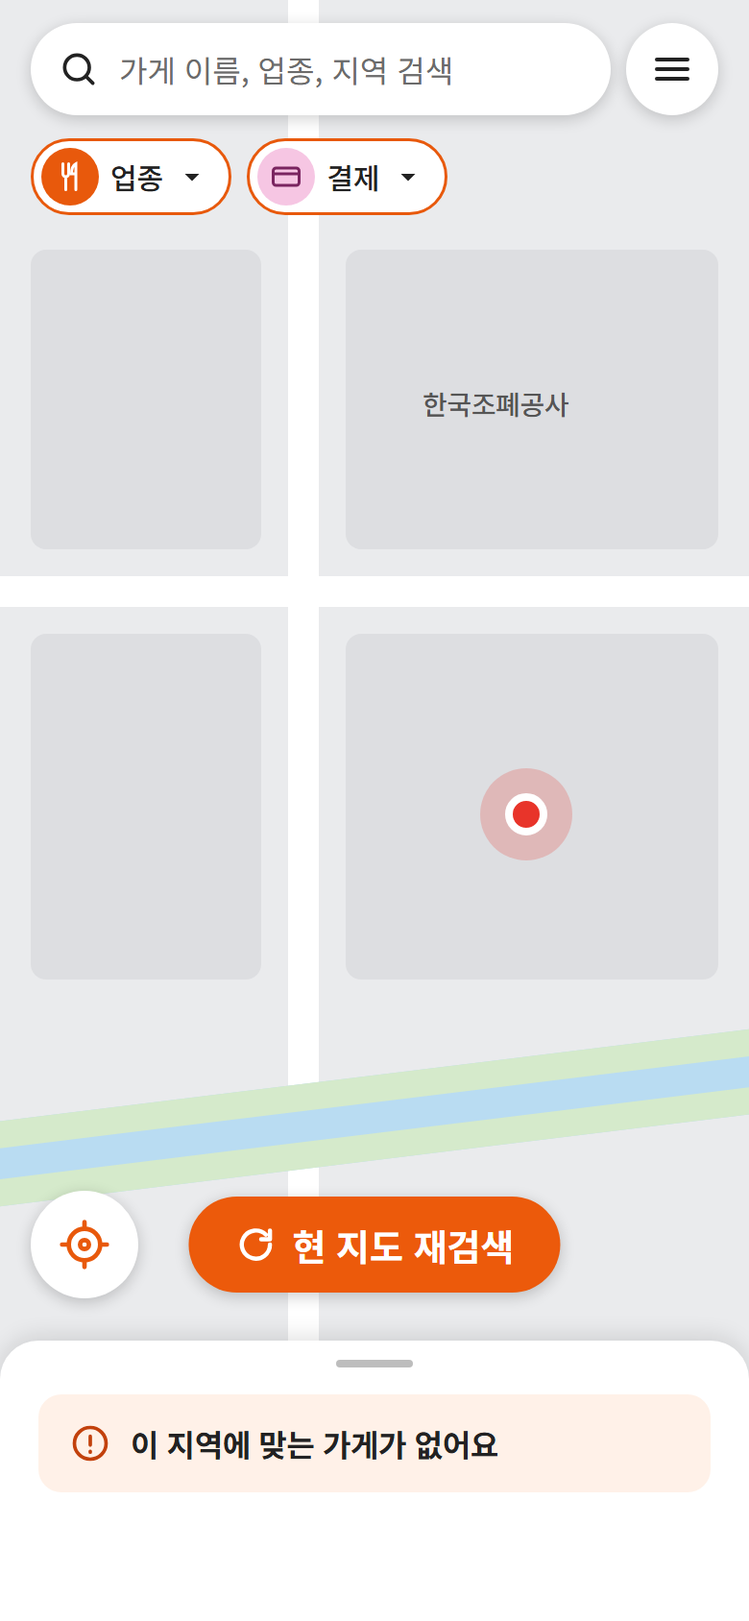
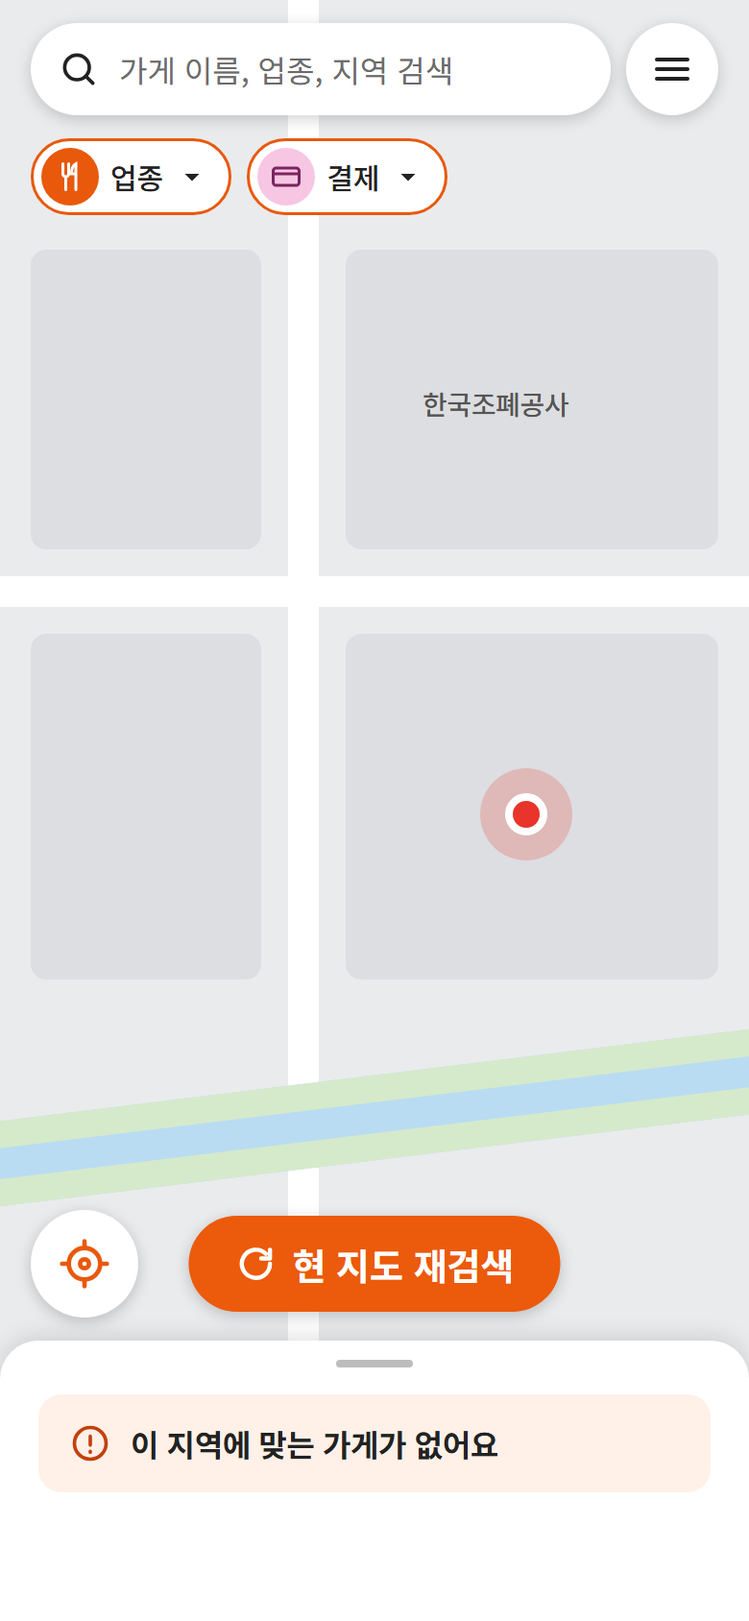
docs: location consent sheet, error screens, policy links (requirements v0.15, API v0.8)
- U-12 location info/consent sheet on first visit (FR-LOC-03, policy 3-5), /meta policies.locationTerms
- Menu links to terms and privacy policy (FR-MBR-13); no consent-history menu
- E-01 split into offline / server error (503 MAINTENANCE), customer center 1670-1600
- My-location and re-search buttons sit 12px above the sheet and move with it (FR-MAP-01)
- Email is view-only (FR-MBR-09)
- Design: U-12, E-01 server error, button positions; screen-API map updated

Changed region(s): [[0.2462, 0.7393, 0.7692, 0.8318], [0.0308, 0.7085, 0.1846, 0.8318]]

diff --git a/docs/REQUIREMENTS.md b/docs/REQUIREMENTS.md
@@ -1,4 +1,4 @@
-# 가맹점 검색 서비스 요구사항 정의서 (초안 v0.14)
+# 가맹점 검색 서비스 요구사항 정의서 (초안 v0.15)
 
 > 작성 2026-11-11 · 화면설계 반영 2026-11-13(10절 변경 이력) · 화면설계를 진행하며 함께 고친다 · 기준: `docs/SERVICE_POLICY.md`(정책), `docs/BACKEND_HANDOFF.md`(검색 이식), `docs/SEARCH_LOGGING.md`(로그)
 > 정책과 다르면 정책을 따르고 이 문서를 고친다. 결정 배경은 노션 "가맹점 검색 서비스 정책" 페이지 아래 "요구사항 정의서 설명".
@@ -79,7 +79,7 @@
 |---|---|---|---|---|
 | FR-LOC-01 | 검색 중심 결정 | 우선순위: 검색어 지명 → 화면에서 고른 지역 → 옮긴 지도 화면 중심 → GPS → 기본 위치. 선택된 출처를 응답·로그에 남김 | P0 | P3-1 |
 | FR-LOC-02 | 기본 위치 | 소상공인시장진흥공단 본부(36.383625, 127.318375). GPS 거부·실패·국내 밖(위도 33~39, 경도 124~132 밖)이면 사용, 문구 ⑨ | P0 | P3-3, P3-4 |
-| FR-LOC-03 | 위치 권한 | 첫 진입 때 바로 브라우저 위치 권한 창을 띄운다(앞에 설명 화면 없음). 거부·실패하면 기본 위치로 진행 + 작은 줄 ⑨. 거부해도 모든 기능 사용 가능. 내 위치 버튼으로 다시 요청 | P0 | P3-5 |
+| FR-LOC-03 | 위치 정보 이용 동의·권한 | 첫 진입 때 지도(기본 위치) 위에 U-12 위치 정보 이용 안내 시트를 띄운다(2026-11-17, 이전의 "설명 화면 없이 바로 권한 창"을 바꿈). 내용: 위치를 쓰는 목적(가까운 가맹점 찾기·거리 표시), 정확한 위치는 저장하지 않음, 위치기반서비스 이용약관 동의 줄(법무 결과에 따라 필수 ⚠ — 필요 없으면 이 줄 없이 안내만). [동의하고 위치 사용] → 브라우저 위치 권한 창 → 허용이면 GPS, 거부·실패면 기본 위치 + 작은 줄 ⑨. [나중에]·✕ → 기본 위치 + ⑨. 선택은 브라우저에 저장(약관 버전과 함께)해 다음 방문에는 다시 묻지 않고, 약관 버전이 바뀌면 다시 묻는다. 거부해도 모든 기능 사용 가능. 내 위치 버튼·⑨의 '위치 켜기'로 다시 요청(동의 전이면 U-12, 브라우저에서 막혀 있으면 토스트 "브라우저 설정에서 위치 권한을 허용해 주세요"). 첫 조회(`/browse`)는 시트에서 고른 뒤 부른다. 비회원 동의 기록을 서버에 남겨야 하는지는 법무 ⚠(필요하면 익명 동의 기록 API, P1) | P0 | P3-5, P16-3 |
 | FR-LOC-04 | 거리 기준 | 반경·거리순·상호 우선 10km·완전 일치 50km는 모두 검색 중심 기준 | P0 | P3-2, H8 |
 | FR-LOC-05 | 범위 | 지명 없음 → 중심 1km. 넓은 지명(시도·시군구·읍면) → 법정동 코드 앞 2·5·8자리. 좁은 지명(동·행정동·역·시장) → 그 중심 1km | P0 | P5-1~3 |
 | FR-LOC-06 | 반경 확장 | 1km 안 관련 가게 10곳 미만이면 10km로 한 번에. 상호 검색도 같음. 10km에도 0곳이면 문구 ③. 넓은 지명은 확장하지 않고 0곳이면 문구 ③-2 | P0 | P5-2, P5-4, P5-5 |
@@ -131,7 +131,7 @@
 
 | ID | 요구사항 | 상세 | 우선 | 근거 |
 |---|---|---|---|---|
-| FR-MAP-01 | 지도 표시 | 네이버 지도. 첫 화면 중심 = 검색 중심(GPS 또는 기본 위치), 기본 줌은 1km 반경이 보이는 수준(화면설계에서 확정 ⚠). 내 위치 표시·내 위치 버튼. 내 위치 버튼은 지도만 내 위치로 옮기고 다시 찾지 않는다('현 지도 재검색' 버튼이 나타남, FR-MAP-06) | P0 | P1-5 |
+| FR-MAP-01 | 지도 표시 | 네이버 지도. 첫 화면 중심 = 검색 중심(GPS 또는 기본 위치), 기본 줌은 1km 반경이 보이는 수준(화면설계에서 확정 ⚠). 내 위치 표시·내 위치 버튼. 내 위치 버튼은 지도만 내 위치로 옮기고 다시 찾지 않는다('현 지도 재검색' 버튼이 나타남, FR-MAP-06). 내 위치 버튼과 '현 지도 재검색' 버튼은 하단 시트 위 12px에 붙어 있어 시트를 끌어 올리거나 내리면 함께 움직이고(U-01·U-04·U-05 모두), 시트가 전체(목록)이면 숨긴다(2026-11-17) | P0 | P1-5 |
 | FR-MAP-02 | 지도 검색 범위 | 지도 화면에서 검색하면 보이는 사각형이 범위(반경 확장 없음). 결과 전부를 핀으로, 최대 300 | P0 | P6-1 |
 | FR-MAP-03 | 결과로 지도 맞춤 | 검색창으로 검색하면 결과가 있을 때 항상 지도를 결과에 맞춘다: 상위 10곳이 모두 들어오는 최소 범위(결과가 화면 가운데). 검색어에 지명이 없으면 검색 중심도 범위에 넣고, 지명·상호 우선·완전 일치면 결과(1위 쪽)만 맞춘다. 줌 한계: 가장 확대해도 1km 원이 보이는 줌, 가장 넓어도 10km 원이 보이는 줌(넓은 지명은 화면 대각선 50km 이하). '현 지도 재검색'은 지도를 옮기지 않는다(0곳이면 FR-MAP-04) | P0 | P6-2 |
 | FR-MAP-04 | 화면 안 0곳 | 지도 검색 결과가 0곳이면 화면 중심에서 목록 규칙(1km → 10km)으로 다시 찾고, 있으면 FR-MAP-03처럼 이동 + 문구 ⑧, 없으면 ④. 로그는 한 검색(같은 query_id)에 단계 표시 | P0 | P6-2 |
@@ -188,10 +188,11 @@
 | FR-MBR-06 | 로그인 유지 | 접근 토큰 30분 + 갱신 토큰 14일(HttpOnly·Secure 쿠키, 쓸 때마다 새로 발급). 로그아웃하면 갱신 토큰 폐기 | P1 | |
 | FR-MBR-07 | 최근 검색어 | 검색창을 누르면 최근 10개(최신 순) 표시, 누르면 그 검색어로 검색. 비회원은 그 자리에 "로그인하면 최근 검색어를 볼 수 있어요 · 로그인" 한 줄. 정규화가 같으면 하나로 합치고 시각 갱신, 마지막 원문 표시. 하나씩·전체 삭제. 좌표·query_id는 저장 안 함. 저장하는 검색: 직접 입력(`typed`, '현 지도 재검색' 포함)·최근 검색어(`recent`)·"'○○' 가게 보기"(`place_store`)·자동완성(`autocomplete`, P2). 칩 재검색·"○○ 지역으로 보기"·"다른 ○○"는 같은 검색어라 저장·시각 갱신을 하지 않는다. 검색어 없는 조회·지명만 입력은 저장 안 함(2026-11-16) | P1 | P9-1 |
 | FR-MBR-08 | 즐겨찾기 | 추가·해제, 같은 가게 한 번, 최대 500(넘으면 안내). 목록은 추가한 최신 순, 거리 표시. 목록에서 별을 누르면 바로 해제하고 그 줄을 목록에서 뺀다. 비면 "등록된 관심 가맹점이 없어요."(2026-11-16). 확인 대기 가게는 목록에서 숨김, 폐업·숨김 가게는 자동 삭제 | P1 | P9-2, P9-3 |
-| FR-MBR-09 | 내 정보 | 닉네임·이메일(동의 안 했으면 빈 칸)·연결된 로그인 수단 보기, 로그아웃, 탈퇴 | P1 | |
+| FR-MBR-09 | 내 정보 | 닉네임·이메일(동의 안 했으면 빈 칸)·연결된 로그인 수단 보기, 로그아웃, 탈퇴. 이메일은 구글 계정에서 받은 값을 보여 주기만 하고 바꾸지 않는다(서비스가 이메일을 보내지 않아 확인 메일·변경 기능을 두지 않음, 2026-11-17) | P1 | |
 | FR-MBR-10 | 닉네임 변경 | U-09의 '변경' → 입력 시트. 2~12자, 한글·영문·숫자(어기면 입력칸 아래 안내, 저장 버튼 꺼짐). 다른 회원과 같아도 된다(다른 회원에게 보이는 곳이 없음). P2 → P1(2026-11-16) | P1 | P2-8 |
 | FR-MBR-11 | 탈퇴 | 확인 대화상자 "정말 탈퇴하시겠습니까?" / "탈퇴 후에는 동일 정보로 재가입하여도 기존 내역이 복구되지 않습니다." [취소] [탈퇴](2026-11-16). 확인 후 회원을 탈퇴 상태로 바꾸고 닉네임·이메일을 비움(회원 번호와 가입·탈퇴 시각만 남음). 로그인 수단·약관 동의·최근 검색어·즐겨찾기는 즉시 삭제, 소셜 연결 끊기 요청. 분석 로그는 그대로(회원과 연결 안 됨) | P1 | P9-4 |
 | FR-MBR-12 | 로그인 상태 | 서비스는 로그인 없이 바로 열린다(첫 화면에 로그인 안내를 따로 띄우지 않는다 — 메뉴와 검색창 최근 검색어 자리에 이미 있음). 화면은 열 때 검색·조회를 먼저 부르고, 뒤에서 조용히 로그인 상태를 확인해 메뉴·별 표시에 쓴다. 로그인이 필요한 기능(별, 관심 가맹점, 내 정보)을 누를 때만 로그인으로 보낸다(2026-11-16) | P1 | |
+| FR-MBR-13 | 약관·방침 보기 | 메뉴 아래쪽에 이용약관 · 개인정보처리방침(· 위치기반서비스 이용약관, 법무 결과에 따라) 링크. 비회원·회원 모두. 개인정보처리방침은 누구나 볼 수 있게 공개해야 하므로 P0. 주소는 `/meta`로 받는다. 약관 동의 내역 메뉴는 두지 않는다 — 우리 약관은 모두 필수라 바꿀 선택 동의가 없다. 선택 동의(마케팅 등)가 생기면 그때 추가(2026-11-17) | P0 | P16-2 |
 
 ### 2-10. 관리자 공통·계정 (FR-ADM)
 
@@ -404,7 +405,7 @@ DB 테이블 설계의 입력이다. 이름은 예시이고 설계 단계에서 
 
 화면설계의 입력이다. 화면 ID는 화면설계 단계에서 그대로 쓴다. 완성된 화면 그림은 [`docs/design/README.md`](design/README.md)(원본: claude.ai 디자인 캔버스). 모바일 기준이며, 데스크톱(가로 1024px 이상)은 U-03·U-04를 한 화면에 함께 둔다(FR-MAP-09, 화면설계는 모바일 다음에).
 
-**공통 틀(모바일)**: 디지털온누리 앱 '가맹점 찾기' 디자인. 상단 헤더('가맹점 찾기 ×')는 두지 않고 **검색창이 항상 맨 위**, 검색창 오른쪽에 메뉴(☰). 메뉴: 비회원은 로그인 안내("로그인하면 관심 가맹점과 최근 검색어를 저장할 수 있어요" · 로그인) + 관심 가맹점 >, 회원은 "{닉네임}님, 반가워요!" + 내 정보 > + 관심 가맹점 >. 그 아래 업종 칩·결제 칩, 지도, 지도 위 내 위치 버튼·'현 지도 재검색', 하단 3단계 시트(닫힘 / 중간 / 전체). 직접 검색·내주변·관심 가맹점 탭과 시장·지역 검색 구분은 두지 않는다. U-03·U-04는 이 틀에서 시트 상태만 다르다.
+**공통 틀(모바일)**: 디지털온누리 앱 '가맹점 찾기' 디자인. 상단 헤더('가맹점 찾기 ×')는 두지 않고 **검색창이 항상 맨 위**, 검색창 오른쪽에 메뉴(☰). 메뉴: 비회원은 로그인 안내("로그인하면 관심 가맹점과 최근 검색어를 저장할 수 있어요" · 로그인) + 관심 가맹점 >, 회원은 "{닉네임}님, 반가워요!" + 내 정보 > + 관심 가맹점 >. 둘 다 아래쪽에 이용약관 · 개인정보처리방침 링크(FR-MBR-13). 그 아래 업종 칩·결제 칩, 지도, 지도 위 내 위치 버튼·'현 지도 재검색', 하단 3단계 시트(닫힘 / 중간 / 전체). 직접 검색·내주변·관심 가맹점 탭과 시장·지역 검색 구분은 두지 않는다. U-03·U-04는 이 틀에서 시트 상태만 다르다.
 
 ### 7-1. 사용자 화면
 
@@ -421,7 +422,8 @@ DB 테이블 설계의 입력이다. 이름은 예시이고 설계 단계에서 
 | U-09 | 내 정보 | 닉네임(변경 → 입력 시트), 이메일, 연결된 로그인 수단, 로그아웃, 탈퇴(확인 대화상자) | FR-MBR-09~11 | P1 |
 | U-10 | 즐겨찾기 목록 | 화면 이름 '관심 가맹점'(메뉴에서, 위 줄 "< 관심 가맹점"). 온누리 관심 가맹점 화면에서 상품권 태그 줄을 뺀 결과 카드 모양, 최신 순, 거리 표시, 별을 누르면 바로 빠짐. 비었으면 "등록된 관심 가맹점이 없어요." | FR-MBR-08 | P1 |
 | U-11 | 찾을 수 없음 | 폐업·숨김·없는 store_id | FR-DTL-07 | P0 |
-| E-01 | 연결 안 됨 | 첫 화면을 불러오지 못했을 때 전체 화면: "Wi-Fi 또는 모바일 네트워크 연결 상태를 확인해 주세요." · 다시 시도(웹이라 '종료' 없음). 고객센터 안내 줄(번호·운영 시간 ⚠). 사용 중 오류는 대화상자(8절) | 8절 | P0 |
+| U-12 | 위치 정보 이용 안내 | 첫 진입 때 지도 위 하단 시트: 목적·저장 안 함 안내, 위치기반서비스 이용약관 동의 줄(⚠), [나중에] [동의하고 위치 사용] | FR-LOC-03 | P0 |
+| E-01 | 화면을 불러오지 못함 | 첫 화면(`/meta`·`/browse`·지도)을 불러오지 못했을 때 전체 화면, 원인별 두 가지: ① 연결 안 됨(오프라인·네트워크 오류) "Wi-Fi 또는 모바일 네트워크 연결 상태를 확인해 주세요." ② 서버 오류·응답 없음(5xx, 10초 넘게 응답 없음, 네이버 지도 스크립트 로드 실패) "일시적인 오류로 화면을 불러오지 못했어요" / "잠시 후 다시 시도해 주세요." 점검(503 `MAINTENANCE`)이면 "서비스 점검 중이에요" / "{시각}까지 점검해요"(시각이 없으면 생략). 공통: 고객센터 1670-1600 · 평일 09:00~18:00(점심시간 12:00~13:00 제외), [다시 시도](웹이라 '종료' 없음). 고객센터 값은 API가 실패해도 보여야 하므로 화면에 넣어 둔다. 사용 중 오류는 대화상자(8절) | 8절 | P0 |
 
 ```
 U-01 메인 ──(검색창)──▶ U-02 ──(검색 실행)──▶ U-04 지도(시트 중간) ◀──(시트 올림·내림 / 전환 버튼)──▶ U-03 목록(시트 전체)
@@ -461,7 +463,9 @@ A-01 로그인 ──▶ A-03 가맹점 목록 ▶ A-04 상세·수정
 | 상황 | 화면 동작 | 형태 | 관련 |
 |---|---|---|---|
 | 검색·조회 중 | 결과 영역 자리 표시(스켈레톤). 300ms 안에 끝나면 표시하지 않음 | — | NFR-PRF-01 |
-| 첫 화면을 못 불러옴(연결 안 됨) | E-01 "Wi-Fi 또는 모바일 네트워크 연결 상태를 확인해 주세요." · 다시 시도 | 전체 화면 | |
+| 첫 화면을 못 불러옴 — 연결 안 됨 | E-01 ① "Wi-Fi 또는 모바일 네트워크 연결 상태를 확인해 주세요." · 고객센터 · 다시 시도 | 전체 화면 | |
+| 첫 화면을 못 불러옴 — 서버 오류·응답 없음·지도 로드 실패 | E-01 ② "일시적인 오류로 화면을 불러오지 못했어요" / "잠시 후 다시 시도해 주세요." · 고객센터 · 다시 시도. 503 `MAINTENANCE`면 "서비스 점검 중이에요" | 전체 화면 | NFR-OPS |
+| 위치 권한이 브라우저에서 막힘 | "브라우저 설정에서 위치 권한을 허용해 주세요" | 토스트 | FR-LOC-03 |
 | 쓰던 중 연결 끊김 | "인터넷에 연결할 수 없어요" / "Wi-Fi 또는 모바일 네트워크 연결 상태를 확인해 주세요." [닫기] [다시 시도]. 이전 결과·지도는 그대로 | 대화상자 | |
 | 서버 오류(5xx) | "일시적인 오류가 생겼어요" / "잠시 후 다시 시도해 주세요." [닫기] [다시 시도]. 이전 결과는 그대로 | 대화상자 | |
 | 요청 제한(429) | "잠시 후 다시 검색해 주세요" | 토스트 | NFR-SEC-04 |
@@ -485,10 +489,9 @@ A-01 로그인 ──▶ A-03 가맹점 목록 ▶ A-04 상세·수정
 | 항목 | 관련 ID | 담당·시점 |
 |---|---|---|
 | 서버 구성·배포·환경, 배치·확장어 생성 실행 환경(GPU) | FR-EXP-03, NFR-OPS-06 | 팀 문의 중 |
-| 위치 정밀도, 로그 보관, 관리자 접속 기록 필요 여부, 위치기반서비스 신고·약관 | FR-MBR-02, NFR-PRV | 법무 |
+| 위치 정밀도, 로그 보관, 관리자 접속 기록 필요 여부, 위치기반서비스 신고·약관(U-12 동의 줄 필수 여부, 비회원 동의 기록 서버 보관 여부) | FR-MBR-02, FR-LOC-03, NFR-PRV | 법무 |
 | 네이버 지도 사용량·요금 | IR-11 | 개발팀 |
 | 기본 줌, 핀 묶음 값, 안내 문구 문장, 데스크톱 화면 | FR-MAP-01, FR-MAP-07, FR-MSG-02, FR-MAP-09 | 화면설계 |
-| E-01 고객센터 번호·운영 시간(이 서비스 문의를 받는 곳) | 7-1 E-01 | 운영 준비 |
 | 알람 기준(폴백 외) | NFR-OPS-03 | 운영 준비 |
 
 ## 10. 변경 이력
@@ -510,3 +513,4 @@ A-01 로그인 ──▶ A-03 가맹점 목록 ▶ A-04 상세·수정
 | v0.12 | 2026-11-16 | PR #11 리뷰 반영: 같은 가게 판단을 도로명 주소(건물번호까지)로(FR-UPD-03, 9월→11월 원천 사라짐 14.9% → 5.6%), 안전장치는 원천 정리 기간에 적용 안 함(FR-UPD-05, v0.11의 "업종이 처음 들어와서"라는 이유는 잘못), 첫 관리자 계정·첫 비밀번호 변경 P0(FR-ADM-04), 시장유형 수정 불가(FR-STO-04), 노출 로그 = 검색 로그 목록(FR-LOG-02), 검색어 목록 통계는 1년 안만(FR-STA-01, DR-17), DR-05·06·09 보완, IR 필드 이름을 API와 맞춤, v0.10 축소가 빠진 문장 정리(1-2, 5-2, FR-UPD-02, 8절) |
 | v0.13 | 2026-11-16 | API 명세 v0.6(화면 흐름 보완)에 맞춤: 문구 ⑦을 `region_ambiguous`(같은 이름 지명)·`name_first`(상호 우선)로 나눔(FR-MSG-02), IR-01에 skipNameFirst("○○ 지역으로 보기")·칩 재검색 규칙, 핀은 결과 카드와 같은 필드(IR-01·03) |
 | v0.14 | 2026-11-16 | 화면·API 대응표 검토 반영: 다른 지역 선택 시트는 지금 지역 포함 모두 거리순·거리 표시(FR-SRC-06, FR-MAP-10, IR-01), 첫 비밀번호 변경은 새 비밀번호만·바꾸기 전 다른 기능 막음(FR-ADM-04), 관리자 가맹점 목록 순서 고정(FR-STO-01), 닉네임 변경 P1(FR-MBR-10), 통계 CSV는 화면에서 만들고 API 없음(FR-STA-03 P1), 공유 글 형식·링크 미리보기(FR-DTL-05), 검색에서 돌아오면 이전 조회 그대로(FR-BRW-06), 내 위치 버튼은 지도만 이동(FR-MAP-01), 확대 안내는 화면이 먼저 막음(FR-MAP-05), 핀 묶음 라벨(FR-MAP-07), 로그인 뒤 별 자동 추가(FR-DTL-06), 최근 검색어 저장 대상(FR-MBR-07), 관심 가맹점 해제 즉시·빈 화면(FR-MBR-08), 탈퇴 확인 문구(FR-MBR-11), 로그인 상태(FR-MBR-12 신설), 회원 메뉴(7절), E-01 연결 안 됨 화면, 오류 상태를 전체 화면·대화상자·토스트로 정리(8절) |
+| v0.15 | 2026-11-17 | 첫 진입 위치 정보 이용 안내·동의 시트 U-12(FR-LOC-03, 정책 3-5 변경), 약관·방침 링크를 메뉴에(FR-MBR-13 — 약관 동의 내역 메뉴는 두지 않음), E-01을 연결 안 됨·서버 오류(점검 포함) 두 가지로, 고객센터 1670-1600 확정, 내 위치·현 지도 재검색 버튼은 시트 위에 붙어 함께 움직임(FR-MAP-01), 이메일은 보기만(FR-MBR-09) |

diff --git a/docs/api/API_RULES.md b/docs/api/API_RULES.md
@@ -1,6 +1,6 @@
-# API 공통 규칙 (v0.6)
+# API 공통 규칙 (v0.7)
 
-> 작성 2026-11-13 · 고침 2026-11-16(PR #11 리뷰, 화면 흐름 보완 v0.5, 화면 대응표 검토 v0.6) · 기준: `docs/REQUIREMENTS.md` v0.14(5절 IR, 3절 NFR-SEC·PRV) · 명세: [`openapi.yaml`](openapi.yaml)(OpenAPI 3.1)
+> 작성 2026-11-13 · 고침 2026-11-16(PR #11 리뷰, 화면 흐름 보완 v0.5, 화면 대응표 검토 v0.6, 위치 동의·오류 화면 v0.7) · 기준: `docs/REQUIREMENTS.md` v0.15(5절 IR, 3절 NFR-SEC·PRV) · 명세: [`openapi.yaml`](openapi.yaml)(OpenAPI 3.1)
 > 모든 API에 똑같이 적용한다. 개별 API 명세는 `openapi.yaml`에 쓰고, 이 문서와 다르면 이 문서를 먼저 고친다.
 
 ## 1. 결정 요약
@@ -83,7 +83,7 @@
 | `FILE_TOO_LARGE` | 413 |
 | `SOURCE_COLUMNS_MISMATCH` | 422 |
 | `RATE_LIMITED` | 429 |
-| `INTERNAL_ERROR`, `SERVICE_UNAVAILABLE` | 500, 503 |
+| `INTERNAL_ERROR`, `SERVICE_UNAVAILABLE`, `MAINTENANCE`(계획된 점검, details.until 선택 — 화면 E-01 "서비스 점검 중이에요") | 500, 503 |
 
 ## 5. 인증·세션
 
@@ -118,13 +118,13 @@
 | 관리자 세션을 서버 세션으로 둘지 토큰으로 둘지 세부(지금은 서버 세션) | 백엔드 |
 | 위치 정밀도(격자 크기) 최종 | 법무 |
 
-## 10. API 목록 (명세 v0.7)
+## 10. API 목록 (명세 v0.8)
 
 자세한 요청·응답은 [`openapi.yaml`](openapi.yaml). P1 API(소셜 로그인, 회원, 이벤트, 통계)는 v0.4에서 더했다. 관리자 화면 축소(2026-11-13)로 주간 갱신·별칭·지명 제외·원천 변경 알림·관리자 계정 화면과 그 API는 P2이고, 1차는 서버 스크립트·DB 직접 작업으로 한다.
 
 | 우선 | 메서드·주소 | 하는 일 | 화면 |
 |---|---|---|---|
-| P0 | `GET /meta` | 업종·결제 칩 목록, 기본 위치, 제한 값 | 처음 열 때 |
+| P0 | `GET /meta` | 업종·결제 칩 목록, 기본 위치, 약관·방침 링크·위치기반서비스 약관 버전, 제한 값 | 처음 열 때, 메뉴, U-12 |
 | P0 | `POST /search` | 검색(검색창 = 목록 규칙, '현 지도 재검색' = 지도 규칙), 칩 재검색, "○○ 지역으로 보기". 첫 20곳 + 핀 전부(카드 필드 포함) + 문구 + 지도 맞춤 범위 | U-01·03·04·05 |
 | P0 | `POST /browse` | 검색어 없는 조회(화면 안 가게, 가까운 순), 칩만 고름 | U-01·05 |
 | P0 | `GET /search/{queryId}/page?cursor=` | 다음 20곳. 10분 지나면 410 | U-03 |
@@ -156,6 +156,7 @@
 | 화면·기능 | 예정 API(가안) | 하는 일 | 근거 |
 |---|---|---|---|
 | 자동완성 | `GET /autocomplete?q=` | 상호·지명·브랜드 제안 최대 8개 | FR-SRC-12 |
+| 비회원 위치 동의 기록(법무 결과에 따라, 필요하면 P1) | `POST /consents/location` | 익명 동의 기록(약관 버전·시각, 회원·좌표 없음) | FR-LOC-03 |
 | 로그인 수단 추가·해제 | `GET /auth/{provider}/link`, `DELETE /me/providers/{provider}` | 다른 소셜 계정 연결·해제 | FR-MBR-05 |
 | A-02 관리자 홈 | `GET /admin/home` | 오늘 지표, 최근 갱신 상태, 확인할 알림 | FR-ADM-06 |
 | A-04 주소·좌표 수정 | `PUT /admin/stores/{storeId}/overrides/location` | 지도 핀 이동으로 주소·좌표·법정동 코드 수정 | FR-STO-03 |
@@ -165,13 +166,13 @@
 | A-09 해석 미리보기 | `POST /admin/parse-preview` | 검색어·검색 중심 → 해석 결과 | FR-REF-03 |
 | A-12 관리자 계정 | `GET·POST /admin/accounts`, `PATCH /admin/accounts/{id}`, `POST /admin/accounts/{id}/reset-password` | 생성·비활성화·비밀번호 초기화 | FR-ADM-04 |
 
-## 11. 화면 동작별 호출 (v0.7)
+## 11. 화면 동작별 호출 (v0.8)
 
 화면설계(`docs/design/`)의 동작마다 어느 API를 어떤 값으로 부르는지. 자세한 필드는 `openapi.yaml`, 화면별 전체 대응은 [`docs/design/SCREEN_API_MAP.md`](../design/SCREEN_API_MAP.md).
 
 | 화면 동작 | 호출 | 보내는 값·받은 값 쓰는 법 | 우선 |
 |---|---|---|---|
-| 처음 열기 | `GET /meta` → `POST /browse`, 뒤에서 `GET /me` | 지금 지도 범위·GPS. 칩 목록은 `/meta`에서. 로그인 상태는 검색·조회를 막지 않고 뒤에서: `GET /me` → 401이면 `POST /auth/refresh` 한 번 → 다시 `GET /me`, 또 401이면 비회원(FR-MBR-12) | P0 |
+| 처음 열기 | `GET /meta` → (첫 방문이면 U-12 위치 정보 이용 안내) → `POST /browse`, 뒤에서 `GET /me` | U-12는 브라우저에 저장된 동의 버전이 없거나 `policies.locationTerms.version`과 다를 때만. 고른 뒤 지금 지도 범위·GPS(또는 기본 위치)로 조회. 첫 화면 실패는 E-01(연결 안 됨 / 서버 오류·점검). 칩 목록은 `/meta`에서. 로그인 상태는 검색·조회를 막지 않고 뒤에서: `GET /me` → 401이면 `POST /auth/refresh` 한 번 → 다시 `GET /me`, 또 401이면 비회원(FR-MBR-12) | P0 |
 | 내 위치 버튼 | 호출 없음 | 지도만 GPS로 옮기고 '현 지도 재검색' 버튼을 띄운다(FR-MAP-01) | P0 |
 | 검색창 ×·←로 검색 끝내기 | 호출 없음 | 검색 전에 받아 둔 `/browse` 결과(지도 위치·핀·시트·칩)를 그대로 다시 보여 준다(FR-BRW-06) | P0 |
 | 화면 대각선 50km 초과 | 호출 없음 | 화면이 `/meta`의 `limits.mapMaxDiagonalKm`으로 먼저 재고 토스트 ⑩. 이미 보여 준 핀·시트는 그대로(FR-MAP-05) | P1 |
@@ -191,7 +192,7 @@
 | 최근 검색어 누름 | `POST /search` | `inputType=recent` | P1 |
 | 별(관심 가맹점) 누름 | `PUT`·`DELETE /me/favorites/{storeId}` | 비회원은 "로그인이 필요해요" 대화상자 → 로그인 → 돌아오면 그 가게로 `PUT` 한 번(화면이 storeId만 sessionStorage에 잠깐 기억). 다음 페이지의 `favorited`는 서버가 응답 때마다 새로 계산 | P1 |
 | 관심 가맹점(U-10)에서 별 해제 | `DELETE /me/favorites/{storeId}` | 성공하면 그 줄을 바로 목록에서 뺀다. 비면 빈 화면 | P1 |
-| 메뉴 ☰ | `GET /me`(이미 받았으면 호출 없음) | 회원이면 "{nickname}님, 반가워요!" | P1 |
+| 메뉴 ☰ | `GET /me`(이미 받았으면 호출 없음) | 회원이면 "{nickname}님, 반가워요!". 아래쪽 이용약관·개인정보처리방침 링크는 `/meta`의 `policies` | P1 |
 | 닉네임 변경 / 탈퇴 | `PATCH /me` / `DELETE /me` | 탈퇴는 확인 대화상자 뒤에 | P1 |
 | 관리자 첫 로그인 | `POST /admin/auth/login` → `PUT /admin/me/password` | 응답 `mustChangePassword`면 비밀번호 변경 화면. `newPassword`만 보낸다 | P0 |
 | 관리자 A-10 CSV | 호출 없음 | 화면에 받아 둔 통계 응답으로 CSV(UTF-8 BOM) | P1 |

diff --git a/docs/design/SCREEN_API_MAP.md b/docs/design/SCREEN_API_MAP.md
@@ -1,6 +1,6 @@
 # 화면별 기능·API 대응표 (2026-11-16)
 
-기준: 화면 그림 `docs/design/screens/`(캔버스 `1794817446-e4f7`), 요구사항 v0.14 7·8절, API 명세 v0.7(`docs/api/openapi.yaml`), API 규칙 v0.6 11절.
+기준: 화면 그림 `docs/design/screens/`(캔버스 `1794880601-8539`), 요구사항 v0.15 7·8절, API 명세 v0.8(`docs/api/openapi.yaml`), API 규칙 v0.7 11절.
 표시: — 는 API를 부르지 않고 화면 안에서 처리. 우선은 요구사항 1-4 기준.
 
 ## 1. 사용자 화면
@@ -10,13 +10,14 @@
 | 화면 요소·동작 | API | 보내는 값 / 쓰는 응답 | 우선 |
 |---|---|---|---|
 | 처음 열기: 칩 목록·기본 위치·한도 | `GET /meta` | `categories`(17), `paymentMethods`, `defaultLocation`, `limits.mapMaxDiagonalKm` | P0 |
+| 첫 방문: U-12 위치 정보 이용 안내 | `GET /meta`(`policies.locationTerms`) | 브라우저에 저장한 동의 버전이 없거나 다르면 띄움. [동의하고 위치 사용] → 브라우저 권한 창, [나중에] → 기본 위치 + ⑨. 고른 뒤 조회 | P0 |
 | 처음 열기: 화면 안 핀·시트 목록("가까운 순 · 106곳") | `POST /browse` | `bounds`·`center`·`centerSource`·`userLocation` → `pins`, `results`(20), `totalCount` | P0 |
 | 처음 열기: 로그인 상태(메뉴·별 표시용) | 뒤에서 `GET /me` → 401이면 `POST /auth/refresh` 한 번 → `GET /me` | 검색·조회를 기다리게 하지 않음. 실패하면 비회원(FR-MBR-12) | P1 |
-| 첫 화면을 못 불러옴 | — | E-01 연결 안 됨(전체 화면) · 다시 시도 | P0 |
+| 첫 화면을 못 불러옴 | — | E-01 전체 화면: 연결 안 됨 / 서버 오류·응답 없음·지도 로드 실패(503 `MAINTENANCE`면 점검 문구). 고객센터 1670-1600은 화면에 고정 | P0 |
 | 위치 권한 없음 → 작은 줄 ⑨ | `POST /browse` | `centerSource=default` → `subMessage=default_location` | P0 |
 | 핀 묶음 라벨 "○○ 외 N개" | — | 묶음 안 `rank`가 가장 작은 핀의 상호(검색 = 목록 맨 위, 조회 = 가장 가까운 곳) | P1 |
 | 핀 묶음 누름 | — (+ 이벤트 `cluster_click`) | 그 영역으로 확대 | P1 |
-| 내 위치 버튼 | — | 지도만 이동, '현 지도 재검색' 버튼 표시 | P0 |
+| 내 위치 버튼 | — | 지도만 이동, '현 지도 재검색' 버튼 표시. 두 버튼은 시트 위 12px에 붙어 시트와 함께 움직이고 시트 전체면 숨김 | P0 |
 | 지도 이동 → '현 지도 재검색' | `POST /browse` (+ `research_here`) | 지금 `bounds` | P0 |
 | 화면 0곳 ④ | `POST /browse` | `message=map_empty` | P0 |
 | 확대 안내 ⑩ | — | 대각선 > `limits.mapMaxDiagonalKm`이면 부르지 않고 토스트. 이전 핀·시트 유지, 재검색 버튼도 토스트만 | P1 |
@@ -25,7 +26,7 @@
 | 지명만 입력 / "'노량진수산' 가게 보기" | `POST /search` | `placeOnly.mapFit` / `q=storeSuggestion.name`, `inputType=place_store` | P1 |
 | 시트 카드 누름 | `GET /stores/{id}` | U-06 | P0 |
 | 별 | `PUT`·`DELETE /me/favorites/{id}` | 비회원 → "로그인이 필요해요" → U-07 → 돌아오면 그 가게 `PUT` 한 번 | P1 |
-| 메뉴 ☰ | `GET /me`(받아 둔 값) | 비회원 `Menu` / 회원 `Menu-Member` "{닉네임}님, 반가워요!" · 내 정보 > · 관심 가맹점 > | P1 |
+| 메뉴 ☰ | `GET /me`(받아 둔 값), `/meta`의 `policies` | 비회원 `Menu` / 회원 `Menu-Member` "{닉네임}님, 반가워요!" · 내 정보 > · 관심 가맹점 >. 아래쪽 이용약관 · 개인정보처리방침(P0) | P1 |
 
 ### U-02 검색창 열림 (`U02-Member`, `U02-Guest`)
 
@@ -83,7 +84,7 @@
 
 | 화면 요소·동작 | API | 보내는 값 / 쓰는 응답 | 우선 |
 |---|---|---|---|
-| 닉네임·이메일·로그인 수단 | `GET /me` | | P1 |
+| 닉네임·이메일·로그인 수단 | `GET /me` | 이메일은 보기만(바꾸지 않음) | P1 |
 | 닉네임 '변경' → 입력 시트 → 저장 | `PATCH /me` | `nickname`(2~12자, 한글·영문·숫자) | P1 |
 | 로그아웃 | `POST /auth/logout` | | P1 |
 | 탈퇴하기 → "정말 탈퇴하시겠습니까?" → 탈퇴 | `DELETE /me` | | P1 |
@@ -101,7 +102,7 @@
 | 상황 | 형태 | 우선 |
 |---|---|---|
 | 폐업·숨김·없는 가게 | U-11 전체 화면 | P0 |
-| 첫 화면 연결 안 됨 | E-01 전체 화면 · 다시 시도 | P0 |
+| 첫 화면 연결 안 됨 / 서버 오류·점검 | E-01 전체 화면 두 가지 · 고객센터 · 다시 시도 | P0 |
 | 쓰던 중 연결 끊김 / 서버 오류 | 대화상자 [닫기] [다시 시도], 이전 화면 유지 | P0 |
 | 429 / 결과 만료 / 링크 복사 | 토스트 | P0 / P0 / P1 |
 | 로그인 필요 / 로그인 실패 / 500곳 초과 | 대화상자 | P1 |
@@ -145,4 +146,14 @@ A-02 홈, A-05 주간 갱신, A-06 원천 변경 알림, A-07 브랜드 별칭, 
 | 관심 가맹점 해제 | 바로 목록에서 뺌, 빈 화면 | FR-MBR-08, `U10-Empty` |
 | 회원 메뉴·탈퇴 확인·오류 | 그림 추가 | 7·8절, `Menu-Member`, `U09-*`, `E01-Offline`, `Dialogs`, `A04-EditDialog` |
 
-남은 확인: E-01 고객센터 번호·운영 시간(요구사항 9절).
+### 2026-11-17 추가 결정
+
+| 항목 | 결정 | 반영 |
+|---|---|---|
+| 위치 정보 이용 안내 | 첫 진입에 U-12 시트(동의 줄은 법무 결과에 따라) | FR-LOC-03, 정책 3-5, `/meta.policies.locationTerms` |
+| 약관 동의 내역 메뉴 | 두지 않음(바꿀 선택 동의가 없음). 대신 메뉴에 이용약관·개인정보처리방침 링크 | FR-MBR-13, `/meta.policies` |
+| E-01 | 연결 안 됨 / 서버 오류·점검 두 가지, 고객센터 1670-1600 | 7-1, 8절, `MAINTENANCE` |
+| 내 위치 버튼 | 시트 위 12px, 시트와 함께 움직임 | FR-MAP-01 |
+| 이메일 | 보기만 | FR-MBR-09 |
+
+남은 확인: 위치기반서비스 약관 동의·비회원 동의 기록 필요 여부(법무, 요구사항 9절).

diff --git a/docs/design/README.md b/docs/design/README.md
@@ -1,6 +1,6 @@
 # 화면설계
 
-> 원본: claude.ai 디자인 캔버스 [가맹점 찾기 화면설계](https://claude.ai/artifact/PRLSNyFnSkW8ema6xMRv7M) (조직 안에서만 열림) · 이 폴더의 그림은 캔버스 버전 `1794817446-e4f7`(2026-11-16)에서 만든 사본이다. 2026-11-16에 회원 메뉴·닉네임 변경·탈퇴 확인·관심 가맹점 빈 목록·E-01 연결 안 됨·공통 대화상자·A-04 수정 대화상자를 더하고 U-01 확대 안내를 고쳤다(요구사항 v0.14). 나머지 그림은 2026-11-13·16 그대로다.
+> 원본: claude.ai 디자인 캔버스 [가맹점 찾기 화면설계](https://claude.ai/artifact/PRLSNyFnSkW8ema6xMRv7M) (조직 안에서만 열림) · 이 폴더의 그림은 캔버스 버전 `1794880601-8539`(2026-11-17)에서 만든 사본이다. 2026-11-17에 U-12 위치 정보 이용 안내·E-01 서버 오류를 더하고, 메뉴에 약관 링크, E-01 고객센터, 내 위치 버튼 위치(시트 위 12px)를 고쳤다(요구사항 v0.15). 2026-11-16에 회원 메뉴·닉네임 변경·탈퇴 확인·관심 가맹점 빈 목록·E-01 연결 안 됨·공통 대화상자·A-04 수정 대화상자를 더하고 U-01 확대 안내를 고쳤다(요구사항 v0.14). 나머지 그림은 2026-11-13·16 그대로다.
 > 화면 ID와 기능은 [`docs/REQUIREMENTS.md`](../REQUIREMENTS.md) 7절(화면 목록·흐름), 우선순위는 1-4절을 따른다. 캔버스와 이 그림이 다르면 캔버스가 맞다.
 > 그림은 캔버스의 화면 원본을 브라우저로 찍은 것이다. 모바일은 390×844, 관리자는 1440 너비. `[N]`·`[상호]`는 실제 데이터로 채울 자리다.
 
@@ -15,12 +15,14 @@
 | **U-01 화면 안 0곳 ④**<br>`U01-Empty.dc.html` | <img src="screens/U01-Empty.png" width="260" alt="U-01 화면 안 0곳 ④"> |
 | **U-02 검색창 열림 (회원)**<br>`U02-Member.dc.html` | <img src="screens/U02-Member.png" width="260" alt="U-02 검색창 열림 (회원)"> |
 | **U-02 검색창 열림 (비회원)**<br>`U02-Guest.dc.html` | <img src="screens/U02-Guest.png" width="260" alt="U-02 검색창 열림 (비회원)"> |
+| **U-12 위치 정보 이용 안내** (첫 진입)<br>`U12-Location.dc.html`<br>동의 줄은 법무 결과에 따라 | <img src="screens/U12-Location.png" width="260" alt="U-12 위치 정보 이용 안내"> |
 | **U-04 검색 결과 – 지도 (시트 중간)**<br>`U04-Map.dc.html` | <img src="screens/U04-Map.png" width="260" alt="U-04 검색 결과 – 지도 (시트 중간)"> |
 | **U-03 검색 결과 – 목록 (시트 전체)**<br>`U03-List.dc.html` | <img src="screens/U03-List.png" width="260" alt="U-03 검색 결과 – 목록 (시트 전체)"> |
 | **U-05 가게 요약 카드**<br>`U05-Card.dc.html` | <img src="screens/U05-Card.png" width="260" alt="U-05 가게 요약 카드"> |
 | **U-04 같은 이름 지명 – 다른 ○○**<br>`U04-OtherRegion.dc.html`<br>지금 지역 포함 모두 거리순 | <img src="screens/U04-OtherRegion.png" width="260" alt="U-04 같은 이름 지명 – 다른 ○○"> |
 | **공통 대화상자·토스트** (요구사항 8절)<br>`Dialogs.dc.html` | <img src="screens/Dialogs.png" width="520" alt="공통 대화상자·토스트"> |
 | **E-01 연결 안 됨** (첫 화면을 못 불러옴)<br>`E01-Offline.dc.html` | <img src="screens/E01-Offline.png" width="260" alt="E-01 연결 안 됨"> |
+| **E-01 서버 오류·응답 없음** (점검이면 문구만 바뀜)<br>`E01-ServerError.dc.html` | <img src="screens/E01-ServerError.png" width="260" alt="E-01 서버 오류"> |
 | **U-06 가게 상세**<br>`U06-Detail.dc.html` | <img src="screens/U06-Detail.png" width="260" alt="U-06 가게 상세"> |
 | **U-11 찾을 수 없음**<br>`U11-NotFound.dc.html` | <img src="screens/U11-NotFound.png" width="260" alt="U-11 찾을 수 없음"> |
 | **메뉴 (☰, 비회원)**<br>`Menu.dc.html` | <img src="screens/Menu.png" width="260" alt="메뉴 (☰, 비회원)"> |

diff --git a/docs/SERVICE_POLICY.md b/docs/SERVICE_POLICY.md
@@ -41,7 +41,7 @@
 | 3-2 | 모든 거리 규칙(반경, 거리순)의 기준은 검색 중심이다 | [팀]·[평가] |
 | 3-3 | 기본 위치: 소상공인시장진흥공단 본부(대전 유성구 지족로364번길 92, 36.383625, 127.318375) | [팀] |
 | 3-4 | GPS가 국내 밖이면 기본 위치를 쓴다 | [팀] |
-| 3-5 | 위치 권한: 첫 진입 때 바로 브라우저 권한 창(설명 화면 없음). 거부하면 기본 위치로 진행하고 ⑨를 띄운다 | [팀] |
+| 3-5 | 위치 권한: 첫 진입 때 위치 정보 이용 안내·동의 시트를 먼저 보여 주고(목적, 정확한 위치는 저장 안 함, 위치기반서비스 약관 동의는 법무 결과에 따라), 동의하면 브라우저 권한 창. 거부·나중에면 기본 위치로 진행하고 ⑨를 띄운다(2026-11-17 변경, 이전: 설명 화면 없이 바로 권한 창) | [팀] |
 
 ## 4. 검색어 해석
 
@@ -248,3 +248,4 @@
 | 2026-11-13 | 공식 업종 반영(8-1, 13-1), 원천 열 이름 변경(10-1), 첫 공식 업종 갱신은 안전장치 넘어도 진행(11-3) | 팀 |
 | 2026-11-16 | PR #11 리뷰 반영: 같은 가게 판단을 도로명 주소(건물번호까지)로(10-2·10-3), 안전장치는 원천 정리 기간에 적용 안 함(11-3) | 팀 |
 | 2026-11-16 | 화면·API 대응표 검토: "다른 ○○" 시트는 지금 지역 포함 거리순(4-2) | 팀 |
+| 2026-11-17 | 첫 진입 위치 정보 이용 안내·동의 시트(3-5) | 팀 |
